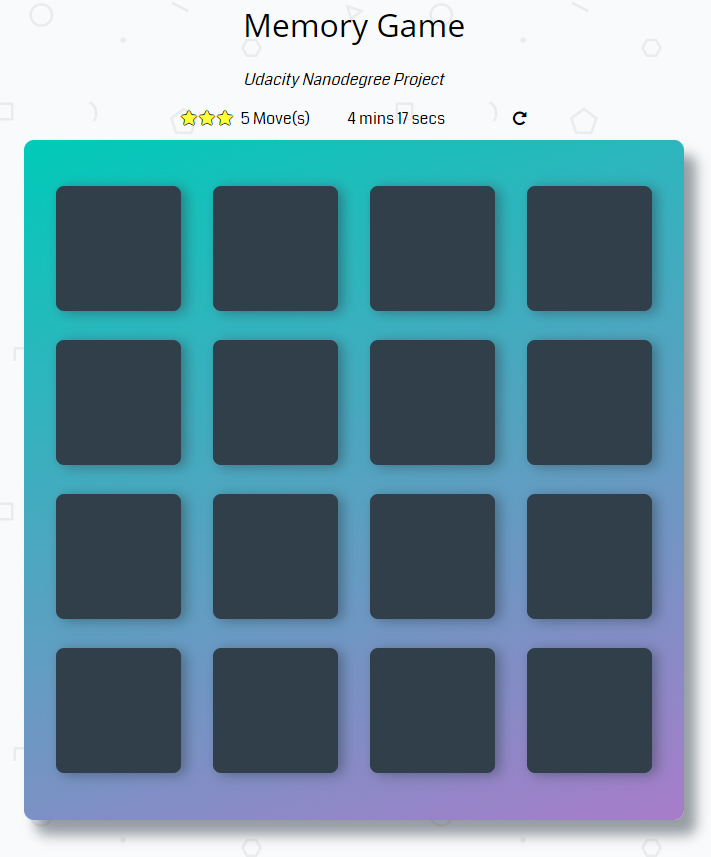
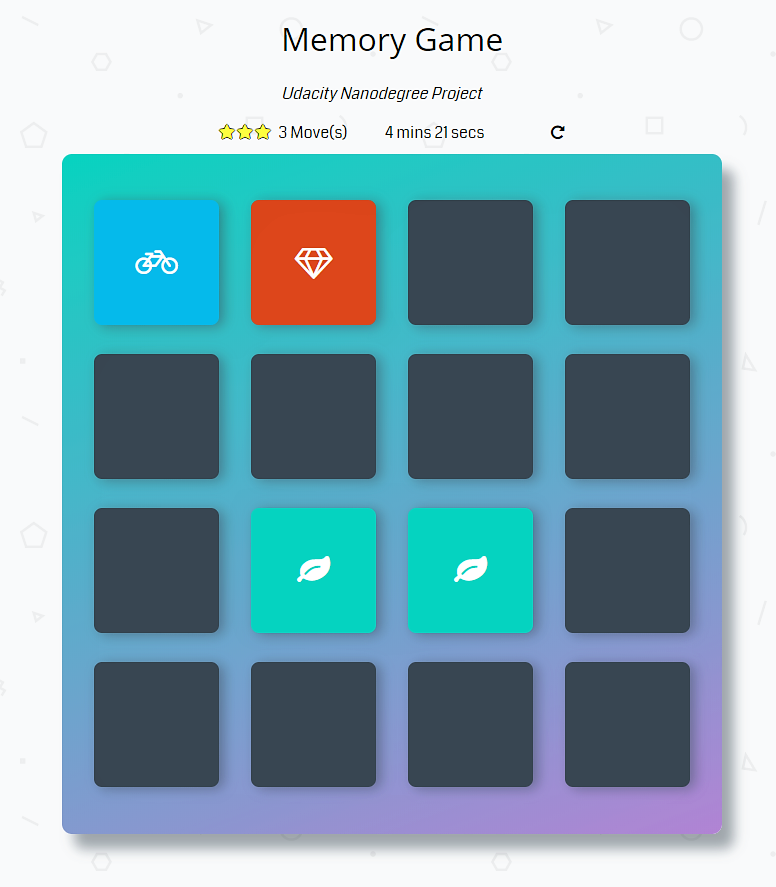
Fixed small things

diff --git a/js/app.js b/js/app.js
@@ -40,9 +40,8 @@ let swal_NewGame = () => {
 /* FUNCTIONS */
 
 
-// @description Shuffle function from http://stackoverflow.com/a/2450976
-// @param {array}
-// @returns shuffledarray
+// Shuffle function from http://stackoverflow.com/a/2450976
+
 function shuffle(array) {
 	var currentIndex = array.length, temporaryValue, randomIndex;
 	
@@ -59,7 +58,7 @@ function shuffle(array) {
 
 // function that will shuffle the deck of cards
 // by shuffling cards' suits
-// @description function to start a new play by shuffling cards' suits
+// function to start a new play by shuffling cards' suits
 function startGame() {
 
 	for (var i = 0; i < stars.length; i++) {
@@ -153,7 +152,7 @@ function startTimer() {
 	}, 1000);
 }
 
-// @description congratulations when all cards match, show modal and moves, time and rating
+// congratulations modal when all cards match, show modal and moves, time and rating
 function congratulations() {
 
 	if (matchedCards.length == 16) {
@@ -272,5 +271,5 @@ deck.addEventListener('click', el => {
 
 
 // IT'S TIME TO PLAY THE GAME (cit.)
-// @description shuffles cards when page is refreshed / loads
+// shuffles cards when page is refreshed / loads
 window.onload = startGame();

diff --git a/index.html b/index.html
@@ -88,19 +88,19 @@
 			<li class="card">
 				<i class="fa fa-anchor"></i>
 			</li>
-			<li class="card">
+			<li class="card match">
 				<i class="fa fa-leaf"></i>
 			</li>
-			<li class="card">
+			<li class="card open show">
 				<i class="fa fa-bicycle"></i>
 			</li>
-			<li class="card">
+			<li class="card wrong">
 				<i class="fa fa-diamond"></i>
 			</li>
 			<li class="card">
 				<i class="fa fa-bomb"></i>
 			</li>			
-			<li class="card">
+			<li class="card match">
 				<i class="fa fa-leaf"></i>
 			</li>
 			<li class="card">
